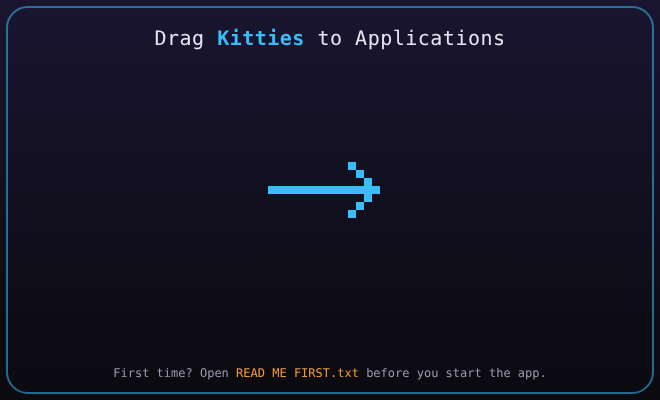
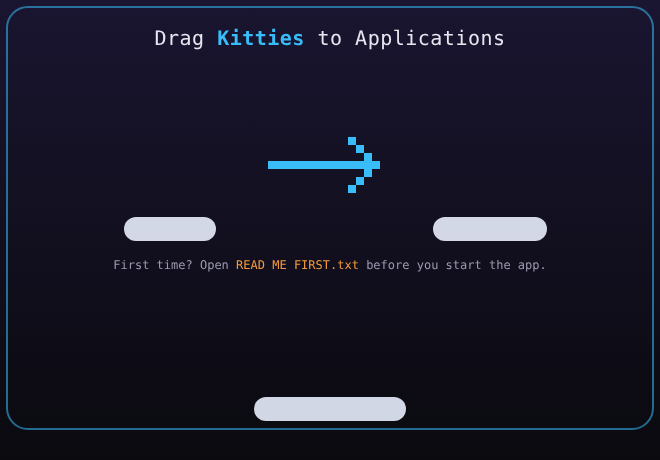
fix(desktop): lay the disk image out so nothing is cut and the labels can be read
The window height counts the title bar, so the README icon was cut off, and a
taller window showed a white strip. The picture is now 460 tall behind a 472
window, the frame and everything that matters sit above y=430, icons are 96,
the note sits between the rows, and Finder's black labels get a light plate
behind each.

Claude-Session: https://claude.ai/code/session_01G4WhTC4VX1E1kVWM8d6N2Z

diff --git a/desktop/dmg/settings.py b/desktop/dmg/settings.py
@@ -4,7 +4,7 @@
 #   dmgbuild -s desktop/dmg/settings.py -D app=path/Kitties.app -D background=bg.tiff \
 #            -D icon=path/iconfile.icns Kitties Kitties.dmg   (from the repository root)
 #
-# The window is 660x400: the app on the left, the Applications shortcut on the right with an
+# The picture is 660x440: the app on the left, the Applications shortcut on the right with an
 # arrow between them (drawn in the background), and the note about the first open underneath.
 import os
 
@@ -24,18 +24,20 @@ background = defines.get("background")  # noqa: F821
 if defines.get("icon"):  # noqa: F821
     icon = defines["icon"]  # noqa: F821
 
-window_rect = ((200, 120), (660, 400))
+# The window's height counts the title bar (28 to 36pt, by macOS version), so 472 leaves about
+# 436 to 444 of the 660x460 picture visible: everything that matters sits above y=430.
+window_rect = ((200, 120), (660, 468))
 default_view = "icon-view"
 show_status_bar = False
 show_tab_view = False
 show_toolbar = False
 show_pathbar = False
 show_sidebar = False
-icon_size = 112
+icon_size = 96
 text_size = 13
 arrange_by = None
 icon_locations = {
-    name: (170, 190),
-    "Applications": (490, 190),
-    readme: (330, 330),
+    name: (170, 165),
+    "Applications": (490, 165),
+    readme: (330, 345),
 }
